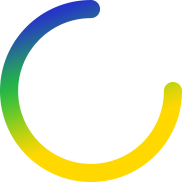
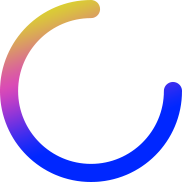
Adicionado no TestFlight e feito o render atualizar a imagem conforme percentual.

Changed region(s): [[0.0, 0.0, 1.0, 1.0]]

diff --git a/UnidosPerderemos/Views/Profile/ProfileViewGraphics.cs b/UnidosPerderemos/Views/Profile/ProfileViewGraphics.cs
@@ -10,9 +10,9 @@ namespace UnidosPerderemos.Views.Profile
 		/// <summary>
 		/// Initializes a new instance of the <see cref="UnidosPerderemos.Views.Profile.ProfileViewGraphics"/> class.
 		/// </summary>
-		public ProfileViewGraphics(Color progressColor)
+		public ProfileViewGraphics(int percent)
 		{
-			SetUp(progressColor);
+			SetUp(percent);
 
 			Content = new StackLayout
 			{
@@ -42,17 +42,16 @@ namespace UnidosPerderemos.Views.Profile
 		/// <summary>
 		/// Sets up.
 		/// </summary>
-		void SetUp(Color progressColor)
+		void SetUp(int percent)
 		{
 			Title = "Percentual";
-			Percentage = 0;
+			Percentage = percent;
 
 			RadialProgress = new RadialProgressBar
 			{
 				WidthRequest = 80d,
 				HeightRequest = 80d,
-				Progress = 51,
-				ProgressColor = progressColor,
+				Progress = percent,
 				HorizontalOptions = LayoutOptions.CenterAndExpand
 			};
 

diff --git a/UnidosPerderemos/Views/Profile/ProfilePage.cs b/UnidosPerderemos/Views/Profile/ProfilePage.cs
@@ -114,10 +114,9 @@ namespace UnidosPerderemos.Views.Profile
 		{
 			get
 			{
-				return new ProfileViewGraphics(Color.Red)
+				return new ProfileViewGraphics(70)
 				{
-					Title = "Dedicação",
-					Percentage = 70
+					Title = "Dedicação"
 				};
 			}
 		}
@@ -130,10 +129,9 @@ namespace UnidosPerderemos.Views.Profile
 		{
 			get
 			{
-				return new ProfileViewGraphics(Color.Blue)
+				return new ProfileViewGraphics(100)
 				{
-					Title = "Meta",
-					Percentage = 100
+					Title = "Meta"
 				};
 			}
 		}

diff --git a/iOS/Renderers/Controls/RadialProgressBarRenderer.cs b/iOS/Renderers/Controls/RadialProgressBarRenderer.cs
@@ -45,7 +45,10 @@ namespace UnidosPerderemos.iOS.Renderers.Controls
 
 		protected override void OnElementChanged(ElementChangedEventArgs<Image> e)
 		{
-			SetNativeControl(new UIImageView(new UIImage("70percent.png")));
+			if (Source.Progress == 70)
+				SetNativeControl(new UIImageView(new UIImage("70percent.png")));
+			else
+				SetNativeControl(new UIImageView(new UIImage("100percent.png")));
 		}
 
 //		protected override void OnElementChanged(ElementChangedEventArgs<RadialProgressBar> e)
